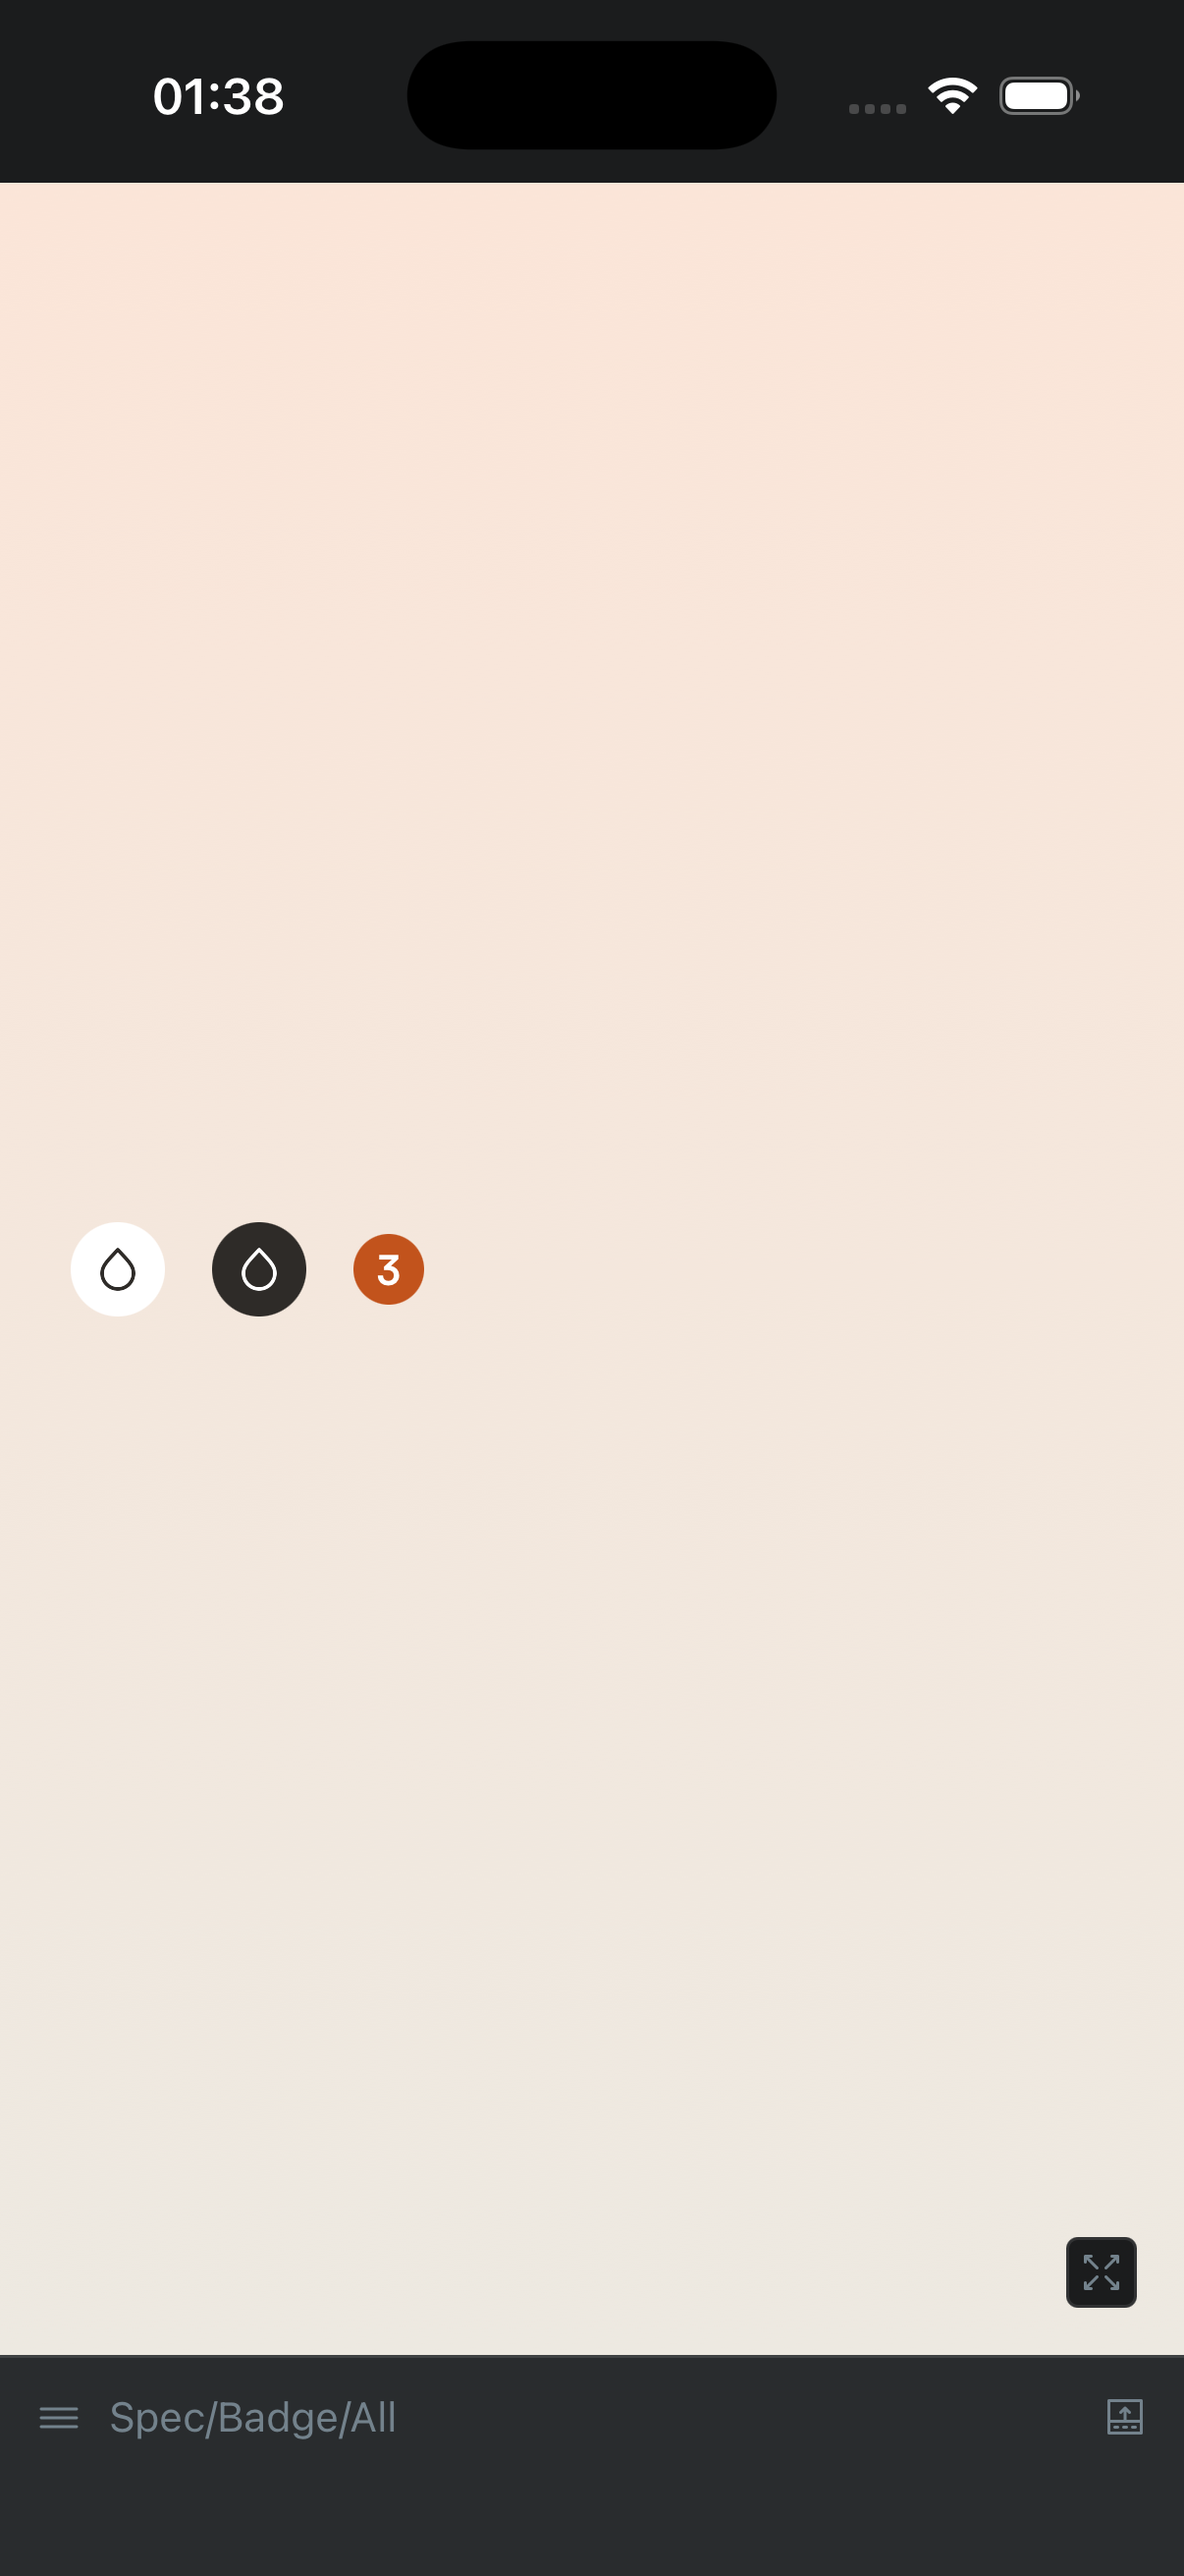
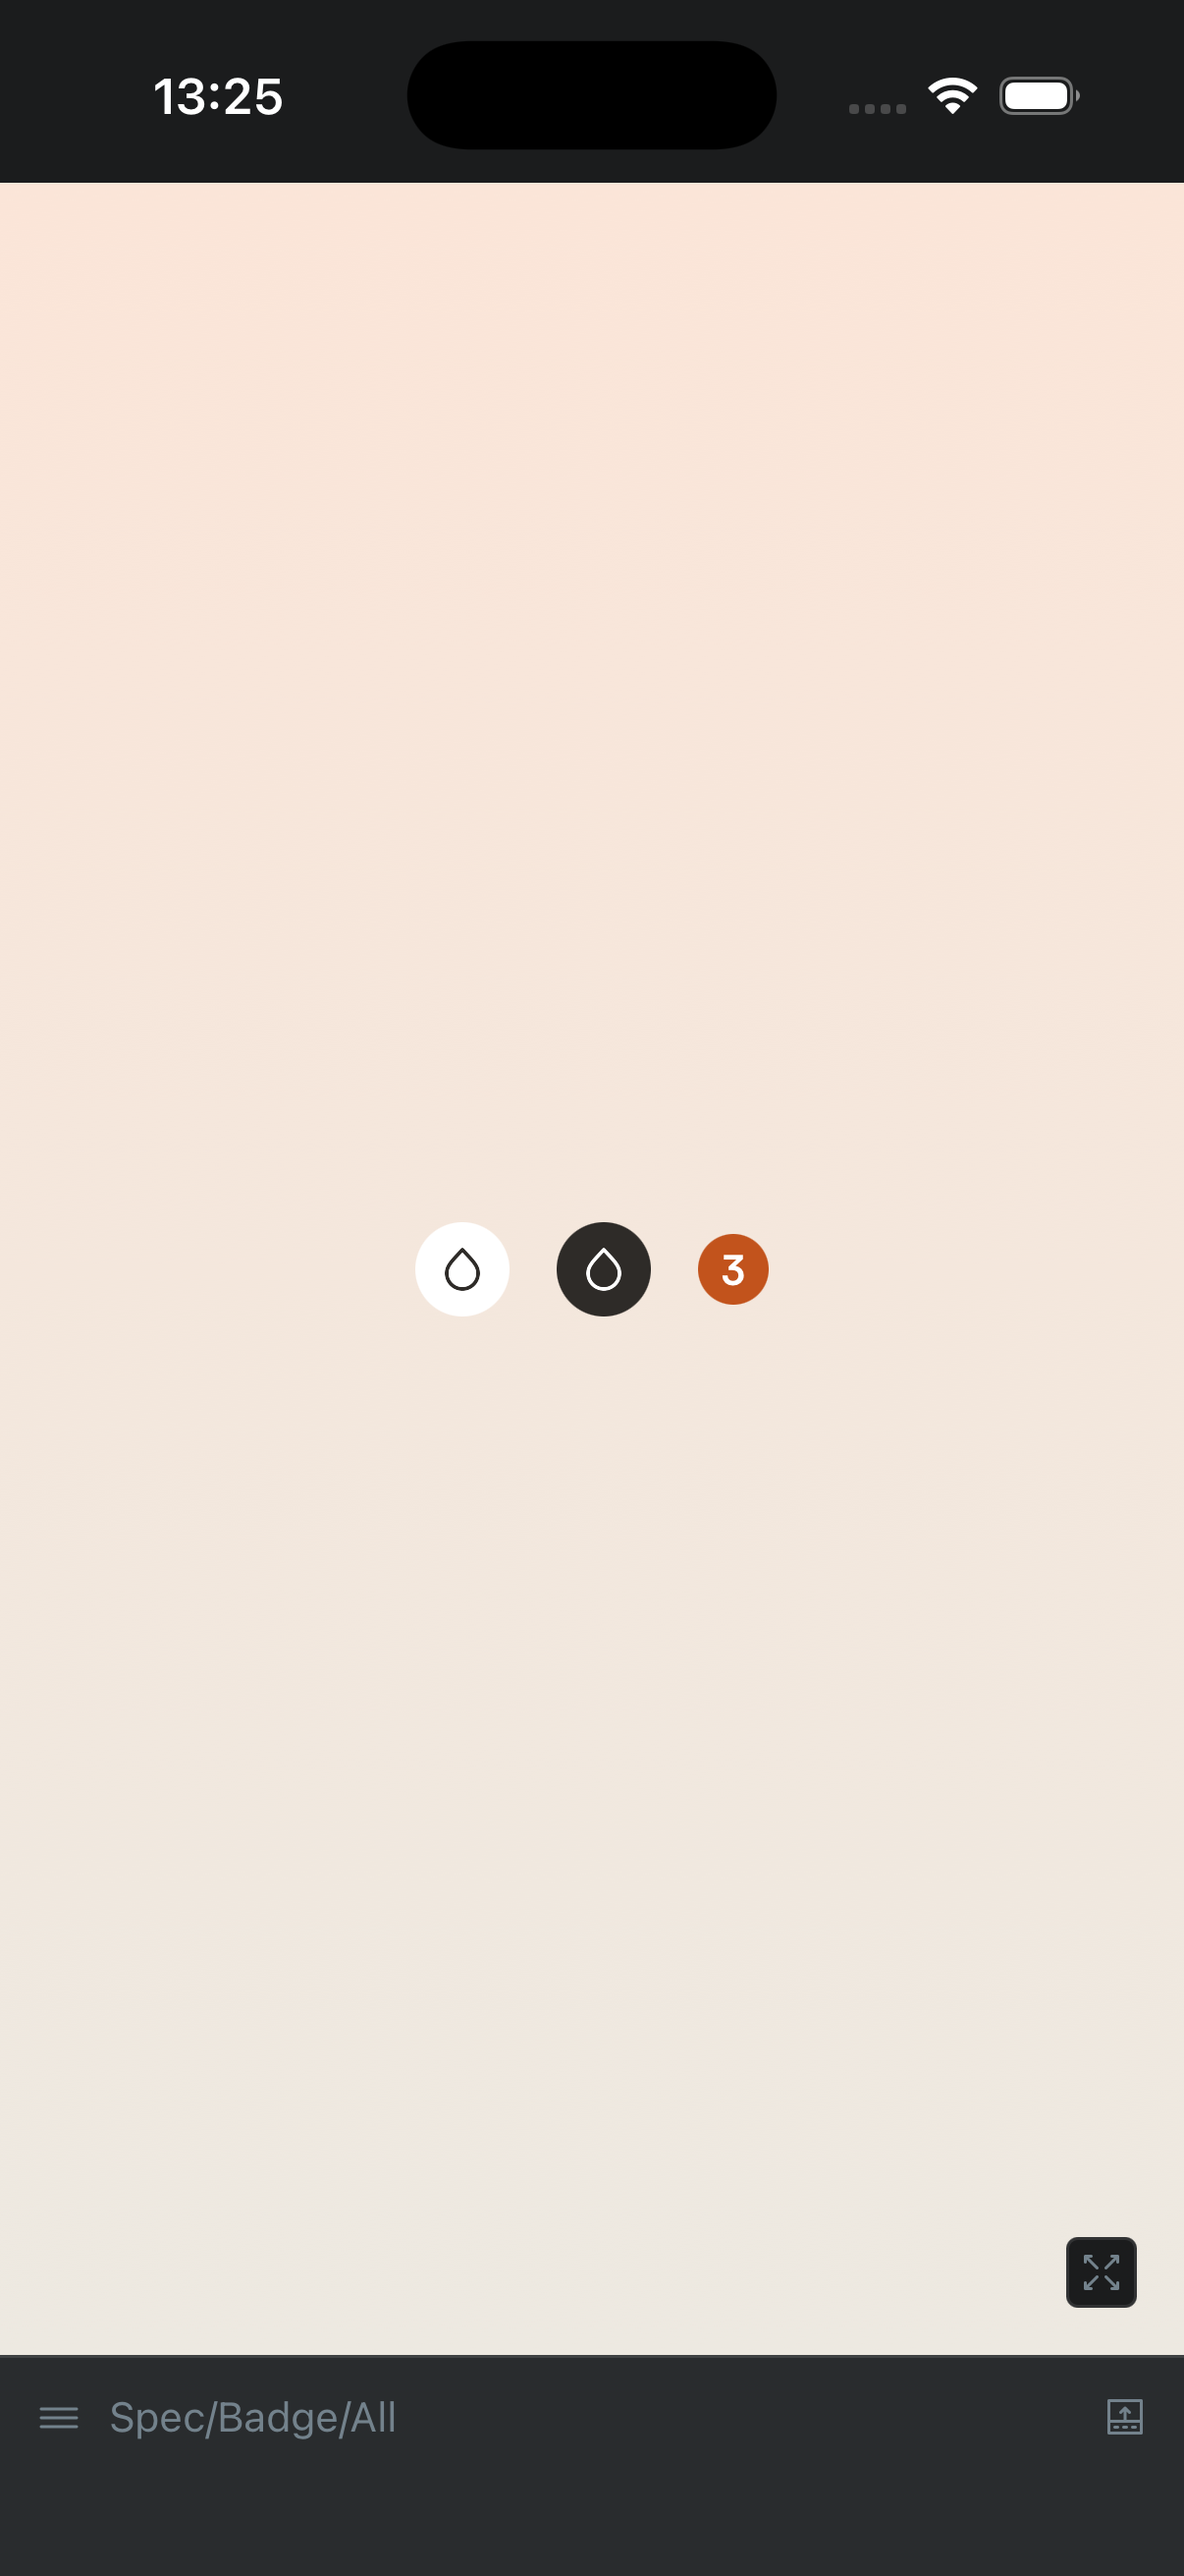
Polish Storybook layout and screenshots

diff --git a/src/components/ui/Button/Button.stories.tsx b/src/components/ui/Button/Button.stories.tsx
@@ -23,7 +23,7 @@ export const All: Story = {
   name: 'All',
   render: () => (
     <ScrollView>
-      <View style={styles.stack}>
+      <View style={styles.allStack}>
         <Button label="Continue" layout="hug" variant="primary" />
         <Button label="Continue" layout="hug" variant="secondary" />
         <Button label="Continue" size="small" variant="secondary" />
@@ -92,7 +92,7 @@ export const F_IconOnly: Story = {
 export const G_FillLayout: Story = {
   name: 'Fill layout',
   render: () => (
-    <View style={styles.stack}>
+    <View style={styles.fillStack}>
       <Button icon="google" label="Continue with Google" layout="fill" variant="primary" />
     </View>
   ),
@@ -101,7 +101,7 @@ export const G_FillLayout: Story = {
 export const H_Loading: Story = {
   name: 'Loading',
   render: () => (
-    <View style={styles.stack}>
+    <View style={styles.fillStack}>
       <Button label="Continue" layout="fill" loading variant="secondary" />
       <View style={styles.row}>
         <Button icon="plus" loading variant="primary" />
@@ -122,10 +122,19 @@ export const I_Disabled: Story = {
 };
 
 const styles = StyleSheet.create({
+  allStack: {
+    alignItems: 'flex-start',
+    gap: spacing.md,
+    width: '100%',
+  },
   stack: {
     alignItems: 'flex-start',
     gap: spacing.md,
     width: 320,
+  },
+  fillStack: {
+    gap: spacing.md,
+    width: '100%',
   },
   row: {
     flexDirection: 'row',

diff --git a/src/components/ui/BottomActions/BottomActions.tsx b/src/components/ui/BottomActions/BottomActions.tsx
@@ -2,7 +2,7 @@ import React from 'react';
 import { type ReactNode } from 'react';
 import { StyleSheet, View, type StyleProp, type ViewStyle } from 'react-native';
 
-import { spacing } from '../../../theme';
+import { layout, spacing } from '../../../theme';
 
 export type BottomActionsProps = {
   bottomBar?: ReactNode;
@@ -41,7 +41,7 @@ const styles = StyleSheet.create({
   container: {
     alignItems: 'center',
     gap: spacing.md,
-    paddingHorizontal: spacing.xxl,
+    paddingHorizontal: layout.screenPadding,
     width: '100%',
   },
   centeredChild: {

diff --git a/.rnstorybook/preview.tsx b/.rnstorybook/preview.tsx
@@ -57,7 +57,7 @@ const styles = StyleSheet.create({
     justifyContent: 'center',
     maxWidth: 430,
     overflow: 'hidden',
-    padding: spacing.xl,
+    padding: spacing.md,
     width: '100%',
   },
   screen: {

diff --git a/src/features/watering/components/WateringSchedule/WateringSchedule.stories.tsx b/src/features/watering/components/WateringSchedule/WateringSchedule.stories.tsx
@@ -268,7 +268,6 @@ const styles = StyleSheet.create({
   frame: {
     flex: 1,
     justifyContent: 'flex-start',
-    paddingHorizontal: spacing.md,
     paddingTop: spacing.md,
     width: '100%',
   },

diff --git a/src/features/watering/components/WateringCard/WateringCard.stories.tsx b/src/features/watering/components/WateringCard/WateringCard.stories.tsx
@@ -53,7 +53,6 @@ const styles = StyleSheet.create({
   },
   frame: {
     flex: 1,
-    paddingHorizontal: spacing.md,
     paddingTop: spacing.md,
     width: '100%',
   },
